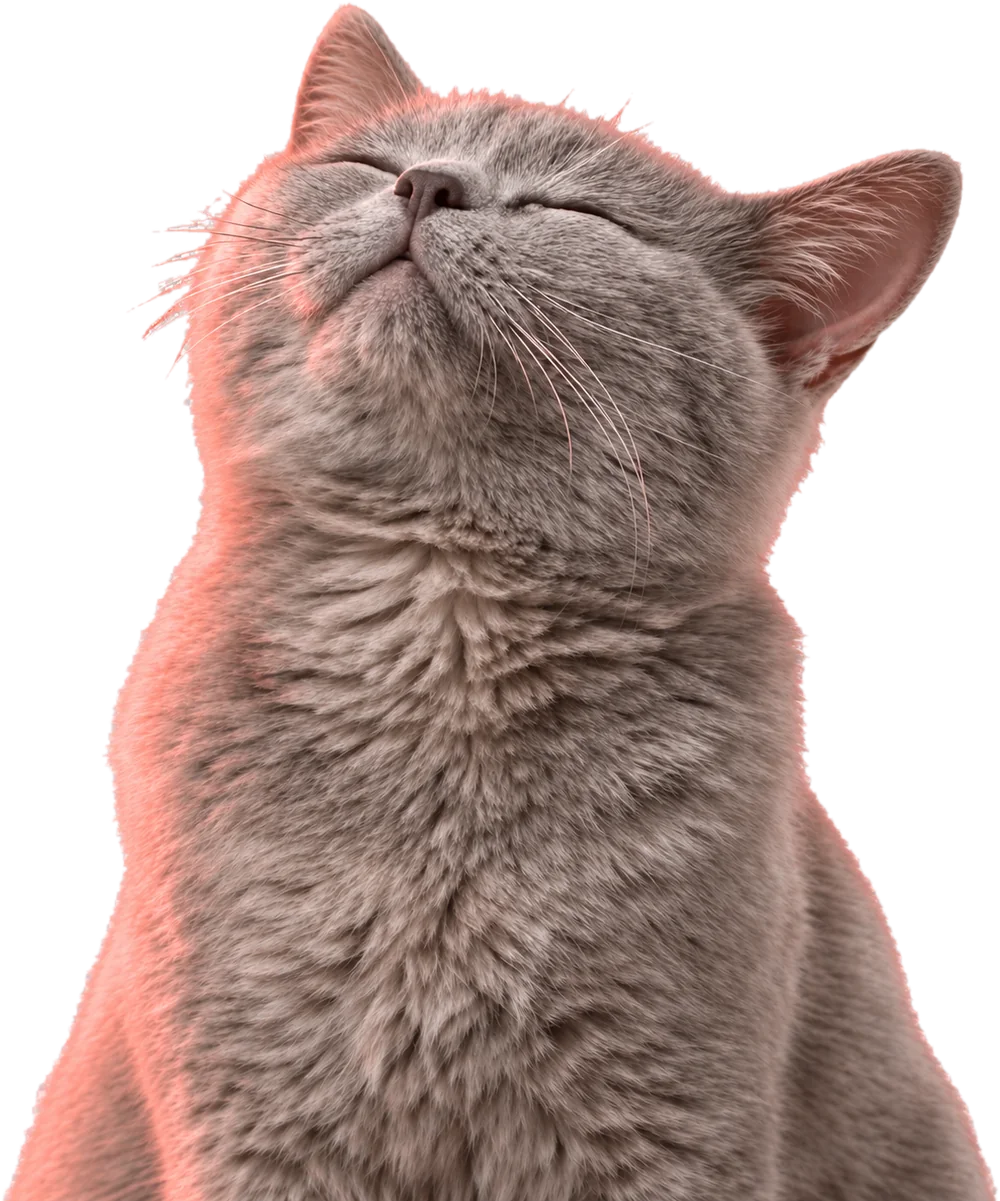
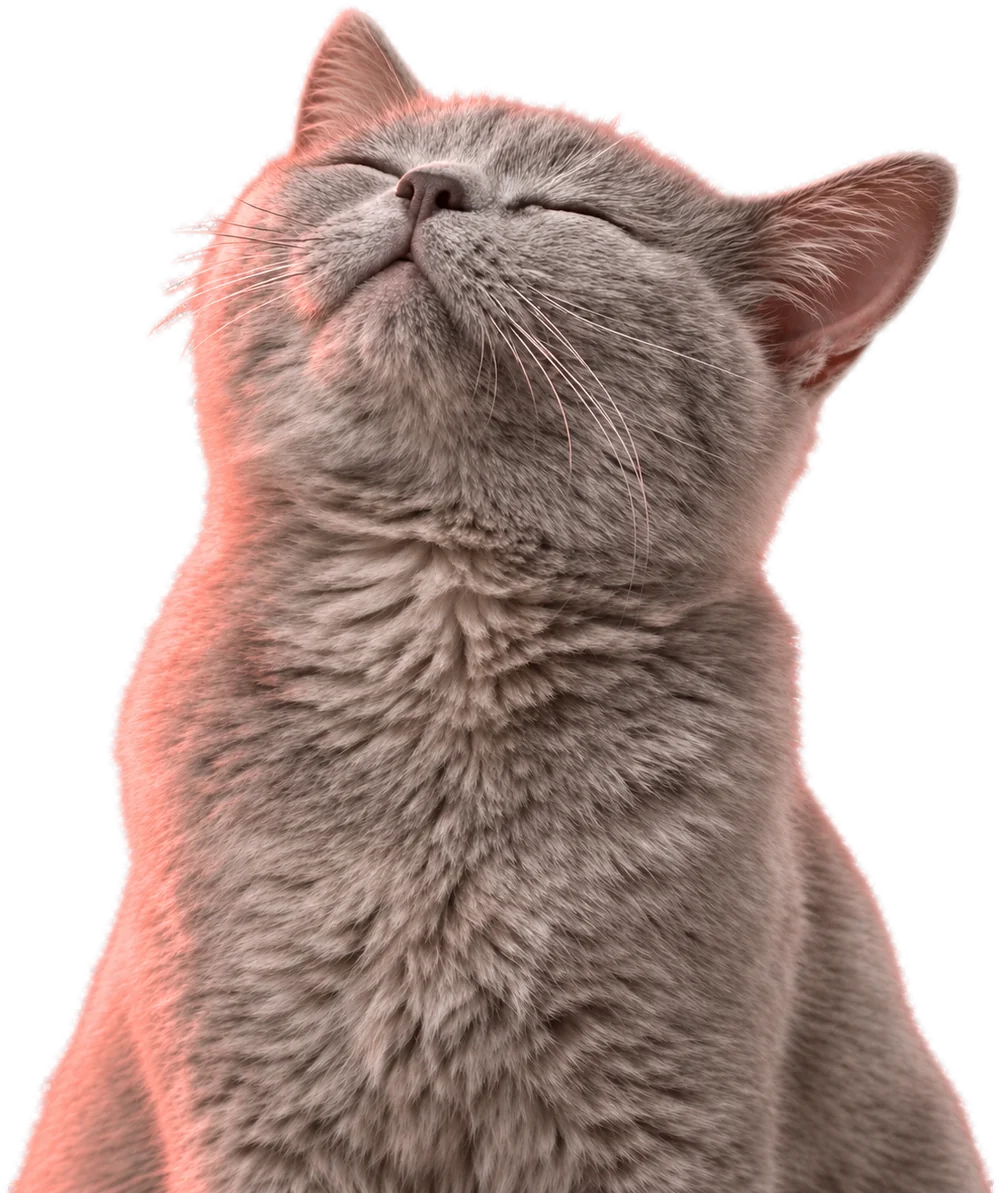
Softer cat edges, tighter intro/benefits gap, solid CTA hover, header CTA orange on hover, new copy for benefits and steps

diff --git a/index.html b/index.html
@@ -14,15 +14,15 @@
 
   <link rel="preload" as="image" href="assets/img/dog-hero.webp">
 
-  <link rel="stylesheet" href="css/tokens.css?v=12">
-  <link rel="stylesheet" href="css/base.css?v=12">
-  <link rel="stylesheet" href="css/header.css?v=12">
-  <link rel="stylesheet" href="css/hero.css?v=12">
-  <link rel="stylesheet" href="css/intro.css?v=12">
-  <link rel="stylesheet" href="css/benefits.css?v=12">
-  <link rel="stylesheet" href="css/how.css?v=12">
-  <link rel="stylesheet" href="css/footer.css?v=12">
-  <link rel="stylesheet" href="css/quiz.css?v=12">
+  <link rel="stylesheet" href="css/tokens.css?v=14">
+  <link rel="stylesheet" href="css/base.css?v=14">
+  <link rel="stylesheet" href="css/header.css?v=14">
+  <link rel="stylesheet" href="css/hero.css?v=14">
+  <link rel="stylesheet" href="css/intro.css?v=14">
+  <link rel="stylesheet" href="css/benefits.css?v=14">
+  <link rel="stylesheet" href="css/how.css?v=14">
+  <link rel="stylesheet" href="css/footer.css?v=14">
+  <link rel="stylesheet" href="css/quiz.css?v=14">
 </head>
 <body data-pet="dog">
 
@@ -208,19 +208,19 @@
         <ul class="benefits__cards">
           <li class="benefit benefit--1" data-reveal>
             <span class="benefit__icon"><svg><use href="#i-leaf"/></svg></span>
-            <div><h3 data-i18n="benefits.1.t">Натуральные ингредиенты</h3><p data-i18n="benefits.1.d">Понятный состав — без необходимости самостоятельно собирать рацион.</p></div>
+            <div><h3 data-i18n="benefits.1.t">Натуральные ингредиенты</h3><p data-i18n="benefits.1.d">Понятный состав без вредных добавок. Вы знаете, чем питается ваш питомец.</p></div>
           </li>
           <li class="benefit benefit--2" data-reveal style="--d:.1s">
             <span class="benefit__icon"><svg><use href="#i-bowl"/></svg></span>
-            <div><h3 data-i18n="benefits.2.t">Готовые порции</h3><p data-i18n="benefits.2.d">Не нужно закупать продукты, считать граммы и готовить.</p></div>
+            <div><h3 data-i18n="benefits.2.t">Готовые порции</h3><p data-i18n="benefits.2.d">Всё уже рассчитано и расфасовано. Остаётся только разморозить и подать.</p></div>
           </li>
           <li class="benefit benefit--3" data-reveal style="--d:.2s">
             <span class="benefit__icon"><svg><use href="#i-heart"/></svg></span>
-            <div><h3 data-i18n="benefits.3.t">Подбор под питомца</h3><p data-i18n="benefits.3.d">Учитываем основные параметры питомца, когда подбираем рацион.</p></div>
+            <div><h3 data-i18n="benefits.3.t">Индивидуальный подход</h3><p data-i18n="benefits.3.d">Учитываем возраст, вес, активность и особенности питомца.</p></div>
           </li>
           <li class="benefit benefit--4" data-reveal style="--d:.3s">
             <span class="benefit__icon"><svg><use href="#i-truck"/></svg></span>
-            <div><h3 data-i18n="benefits.4.t">Доставка по Тбилиси</h3><p data-i18n="benefits.4.d">Привозим заказ прямо домой — никуда ехать не нужно.</p></div>
+            <div><h3 data-i18n="benefits.4.t">Доставка по Тбилиси</h3><p data-i18n="benefits.4.d">Привозим уже готовые порции прямо к вашему дому. Без лишних хлопот.</p></div>
           </li>
         </ul>
       </div>
@@ -242,17 +242,17 @@
           <li class="how__step" data-reveal>
             <span class="how__num" aria-hidden="true">📝</span>
             <h3 data-i18n="how.1.t">Подбираем рацион</h3>
-            <p data-i18n="how.1.d">Вы рассказываете немного о питомце, а мы подбираем подходящий вариант питания.</p>
+            <p data-i18n="how.1.d">Вы рассказываете о питомце в коротком квизе, а мы предлагаем подходящий рацион.</p>
           </li>
           <li class="how__step" data-reveal style="--d:.1s">
             <span class="how__num" aria-hidden="true">🛒</span>
             <h3 data-i18n="how.2.t">Оформляем заказ</h3>
-            <p data-i18n="how.2.d">Вы выбираете рацион и оформляете заказ — прямо на сайте.</p>
+            <p data-i18n="how.2.d">После квиза с вами свяжется наш менеджер, чтобы уточнить детали и оформить заказ.</p>
           </li>
           <li class="how__step" data-reveal style="--d:.2s">
             <span class="how__num" aria-hidden="true">🚚</span>
             <h3 data-i18n="how.3.t">Доставляем</h3>
-            <p data-i18n="how.3.d">Готовим ваш заказ — это занимает около 5 дней — и привозим его домой по Тбилиси.</p>
+            <p data-i18n="how.3.d">Готовим ваш заказ — на это нам нужно 5 рабочих дней — и привозим его прямо к вам домой.</p>
           </li>
         </ol>
 
@@ -318,13 +318,13 @@
 
   <datalist id="breeds"></datalist>
 
-  <script src="js/i18n.js?v=12"></script>
-  <script src="js/state.js?v=12"></script>
-  <script src="js/header.js?v=12"></script>
-  <script src="js/hero.js?v=12"></script>
-  <script src="js/reveal.js?v=12"></script>
-  <script src="js/quiz-steps.js?v=12"></script>
-  <script src="js/quiz.js?v=12"></script>
-  <script src="js/main.js?v=12"></script>
+  <script src="js/i18n.js?v=14"></script>
+  <script src="js/state.js?v=14"></script>
+  <script src="js/header.js?v=14"></script>
+  <script src="js/hero.js?v=14"></script>
+  <script src="js/reveal.js?v=14"></script>
+  <script src="js/quiz-steps.js?v=14"></script>
+  <script src="js/quiz.js?v=14"></script>
+  <script src="js/main.js?v=14"></script>
 </body>
 </html>

diff --git a/js/i18n.js b/js/i18n.js
@@ -39,24 +39,24 @@
       "intro.sub": "Ответьте на пару вопросов о питомце — и мы соберём рацион, который подойдёт именно ему.",
       "intro.note": "2 минуты · без регистрации",
 
-      "benefits.title": `Почему это ${HL("удобно")}`,
+      "benefits.title": `Почему ${HL("с нами")} удобно`,
       "benefits.sticker": "порционно и без хлопот",
       "benefits.1.t": "Натуральные ингредиенты",
-      "benefits.1.d": "Понятный состав — без необходимости самостоятельно собирать рацион.",
+      "benefits.1.d": "Понятный состав без вредных добавок. Вы знаете, чем питается ваш питомец.",
       "benefits.2.t": "Готовые порции",
-      "benefits.2.d": "Не нужно закупать продукты, считать граммы и готовить.",
-      "benefits.3.t": "Подбор под питомца",
-      "benefits.3.d": "Учитываем основные параметры питомца, когда подбираем рацион.",
+      "benefits.2.d": "Всё уже рассчитано и расфасовано. Остаётся только разморозить и подать.",
+      "benefits.3.t": "Индивидуальный подход",
+      "benefits.3.d": "Учитываем возраст, вес, активность и особенности питомца.",
       "benefits.4.t": "Доставка по Тбилиси",
-      "benefits.4.d": "Привозим заказ прямо домой — никуда ехать не нужно.",
+      "benefits.4.d": "Привозим уже готовые порции прямо к вашему дому. Без лишних хлопот.",
 
       "how.title": `Как работает ${HL("Pawology")}`,
       "how.1.t": "Подбираем рацион",
-      "how.1.d": "Вы рассказываете немного о питомце, а мы подбираем подходящий вариант питания.",
+      "how.1.d": "Вы рассказываете о питомце в коротком квизе, а мы предлагаем подходящий рацион.",
       "how.2.t": "Оформляем заказ",
-      "how.2.d": "Вы выбираете рацион и оформляете заказ — прямо здесь, на сайте.",
+      "how.2.d": "После квиза с вами свяжется наш менеджер, чтобы уточнить детали и оформить заказ.",
       "how.3.t": "Доставляем",
-      "how.3.d": "Готовим ваш заказ — на это уходит около 5 дней — и привозим его домой по Тбилиси.",
+      "how.3.d": "Готовим ваш заказ — на это нам нужно 5 рабочих дней — и привозим его прямо к вам домой.",
 
       "footer.title": "Остались вопросы?",
       "footer.text": "Раздел FAQ скоро появится здесь. А пока — напишите нам, ответим.",
@@ -154,24 +154,24 @@
       "intro.sub": "Answer a few questions about your pet and we’ll put together a plan that suits them perfectly.",
       "intro.note": "2 minutes · no sign-up",
 
-      "benefits.title": `Why it’s so ${HL("easy")}`,
+      "benefits.title": `Why it’s easy ${HL("with us")}`,
       "benefits.sticker": "portioned, no fuss",
       "benefits.1.t": "Natural ingredients",
-      "benefits.1.d": "A clear, simple recipe — no need to put a diet together yourself.",
+      "benefits.1.d": "A clear recipe with no harmful additives. You know exactly what your pet eats.",
       "benefits.2.t": "Ready portions",
-      "benefits.2.d": "No grocery runs, no weighing grams, no cooking.",
-      "benefits.3.t": "Tailored to your pet",
-      "benefits.3.d": "We take your pet’s key details into account when choosing a plan.",
+      "benefits.2.d": "Everything is calculated and packed. Just thaw and serve.",
+      "benefits.3.t": "Individual approach",
+      "benefits.3.d": "We consider your pet’s age, weight, activity and specific needs.",
       "benefits.4.t": "Delivery in Tbilisi",
-      "benefits.4.d": "We bring your order right to your door.",
+      "benefits.4.d": "We bring ready-made portions right to your door. No hassle.",
 
       "how.title": `How ${HL("Pawology")} works`,
       "how.1.t": "We find the plan",
-      "how.1.d": "Tell us a little about your pet and we’ll suggest the right meals.",
+      "how.1.d": "Tell us about your pet in a short quiz and we’ll suggest the right meal plan.",
       "how.2.t": "You place the order",
-      "how.2.d": "Choose your plan and check out — right here on the website.",
+      "how.2.d": "After the quiz, our manager will get in touch to confirm details and place the order.",
       "how.3.t": "We deliver",
-      "how.3.d": "We prepare your order — it takes about 5 days — and bring it to your home in Tbilisi.",
+      "how.3.d": "We prepare your order — it takes 5 working days — and bring it right to your home.",
 
       "footer.title": "Still have questions?",
       "footer.text": "Our FAQ is coming soon. Meanwhile, just drop us a message.",

diff --git a/css/hero.css b/css/hero.css
@@ -138,13 +138,13 @@ body.is-ready .hero__heart path { animation: draw 1.2s var(--ease-out) 1.3s forw
 }
 .hero__cta { transition: transform .35s var(--ease-out), background-color .35s ease, color .35s ease, box-shadow .35s ease; }
 .hero__cta:active { transform: scale(.97); }
-/* наведение (на телефоне — нажатие): кнопка становится полупрозрачной в цвет бренда, кружок со стрелкой не меняется */
+/* наведение (на телефоне — нажатие): кнопка заливается мягким цветом бренда, кружок со стрелкой не меняется */
 @media (hover: hover) {
-  .hero__cta:hover { background: rgba(125, 164, 104, .72); color: #fff; box-shadow: inset 0 0 0 1.5px rgba(255, 255, 255, .55); }
-  body[data-pet="cat"] .hero__cta:hover { background: rgba(255, 132, 132, .72); }
+  .hero__cta:hover { background: #9BBD88; color: #fff; }
+  body[data-pet="cat"] .hero__cta:hover { background: #FF9E9A; }
 }
-.hero__cta:active { background: rgba(125, 164, 104, .72); color: #fff; box-shadow: inset 0 0 0 1.5px rgba(255, 255, 255, .55); }
-body[data-pet="cat"] .hero__cta:active { background: rgba(255, 132, 132, .72); }
+.hero__cta:active { background: #9BBD88; color: #fff; }
+body[data-pet="cat"] .hero__cta:active { background: #FF9E9A; }
 .hero__cta-arrow {
   display: grid; place-items: center; flex: none;
   width: 46px; height: 46px; border-radius: 50%;

diff --git a/css/intro.css b/css/intro.css
@@ -2,7 +2,7 @@
 .intro {
   position: relative;
   display: flex; flex-direction: column; align-items: center; text-align: center;
-  padding: 44px 20px 110px;
+  padding: 44px 20px 56px;
   overflow-x: clip;   /* по вертикали мясо может «выходить» за секцию */
   z-index: 1;
 }
@@ -46,7 +46,7 @@
 .quiz-bar__submit .btn-accent__arrow { width: 46px; height: 46px; }
 
 @media (min-width: 768px) {
-  .intro { padding: 48px 40px 140px; }
+  .intro { padding: 48px 40px 64px; }
   .intro__sub { font-size: 18px; }
   .intro-f1 { width: 70px; left: 12%; top: 40px; }
   .intro-f2 { width: 150px; right: 6%; top: 30%; }
@@ -54,7 +54,7 @@
 }
 
 @media (min-width: 1024px) {
-  .intro { padding: 40px 40px 170px; }
+  .intro { padding: 40px 40px 72px; }
   .intro-f2 { width: 180px; right: 9%; top: 38%; }
 
   /* одна строка: поля через разделители + кнопка справа */

diff --git a/css/benefits.css b/css/benefits.css
@@ -1,7 +1,7 @@
 /* ============ Screen 3 · боул + плашки вокруг (по мотивам референса) ============ */
 .benefits {
   position: relative; overflow: hidden;
-  padding: 80px 0 72px;
+  padding: 40px 0 72px;
   background: var(--page);
 }
 .benefits .section-title { padding: 0 20px; }
@@ -61,7 +61,7 @@
 
 /* ---------- Desktop: плашки вокруг боула ---------- */
 @media (min-width: 1024px) {
-  .benefits { padding: 110px 0 100px; }
+  .benefits { padding: 48px 0 100px; }
   .benefits__stage { display: block; height: 720px; max-width: 1240px; margin: 20px auto 0; padding: 0; }
   .benefits__swoosh { left: 50%; translate: -50% 0; width: 100vw; top: 0; height: 100%; }
   .benefits__swoosh path { stroke-width: 110; }

diff --git a/css/header.css b/css/header.css
@@ -100,8 +100,9 @@
   .header__nav a:hover::after { transform: scaleX(1); transform-origin: left; }
 
   .header__actions { gap: 12px; }
-  .header__cta { display: inline-flex; height: 42px; background: var(--orange); color: #fff; }
-  .header__cta:hover { background: var(--orange-deep); }
+  .header__cta { display: inline-flex; height: 42px; background: #fff; color: var(--ink); }
+  .header.is-solid .header__cta { background: var(--accent-deep); color: #fff; }
+  .header__cta:hover, .header.is-solid .header__cta:hover { background: var(--orange); color: #fff; }
 
   .lang-switch { background: rgba(255, 255, 255, .22); border-color: transparent; }
   .lang-switch button[aria-pressed="true"] { box-shadow: 0 0 0 2px #fff; }
